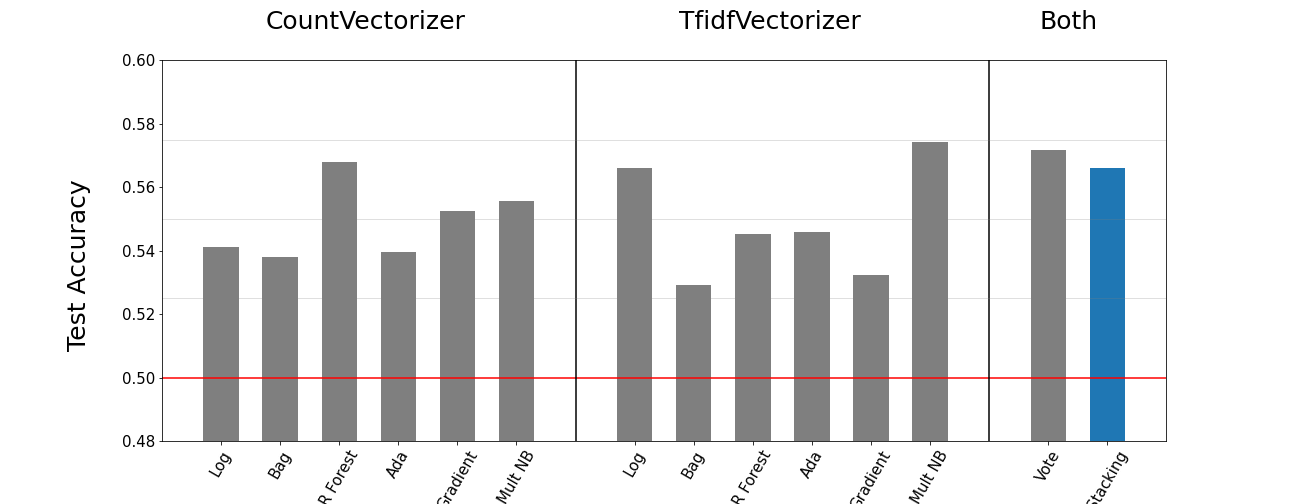
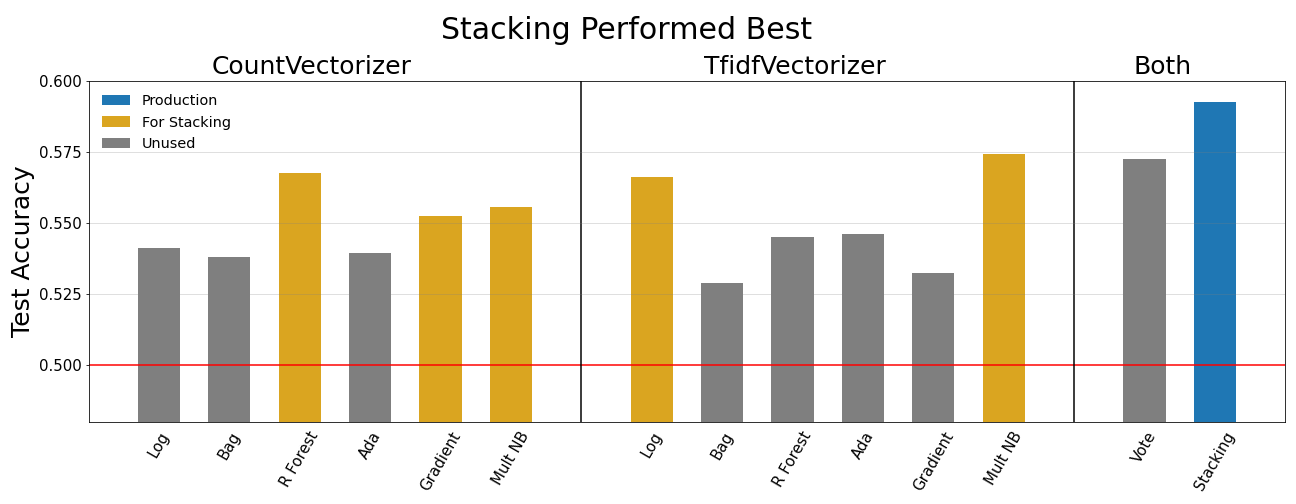
check readme images

diff --git a/README.md b/README.md
@@ -27,10 +27,15 @@ Since r/Seattle and r/SeattleWA are likely to have very similar users and posts 
 # Summary
 
 We collected data from nearly 5,000 total posts across the subreddits r/Seattle and r/SeattleWA (~2,500 each) using [pushshift API](https://github.com/pushshift/api). Using regular expressions and `nltk` we cleaned the text data and collected sentiment analysis. With the cleaned text data we used CountVectorizer to obtain word frequencies across each subreddit post. To identify which words best distinguished the two subreddits, for each subreddit we ranked each word by the frequency it appeared in that subreddit. Then we subtracted each words ranking in one subreddit by its ranking in the other. This gave us a metric for seeing which word appeared frequently in one subreddit but not the other. Below we see two visuals showing the words that appeared much more frequently in r/Seattle than r/SeattleWA and vice versa. The primary takeaway was that posts on r/SeattleWA were more likely to have politically Conservative sentiment.
+
 ![A horizontal bar chart showing word of words found more in r/Seattle](images/more_seattle.png)
+
 ![A horizontal bar chart showing word of words found more in r/SeattleWA](images/more_seattlewa.png)
 
 Next we built several models to classify posts into different subreddits, trying both CountVectorizer and TfidfVectorizer. Ultimately, we landed on StackingClassifier with base models of Random Forest, Gradient Boosting, Logistic Regression, and Multinomial Naive Bayes. This model scored 59% accuracy on the test set
+
+![Accuracy scores of 12 different models](images/iteration_scores.png)
+
 
 
 ---
